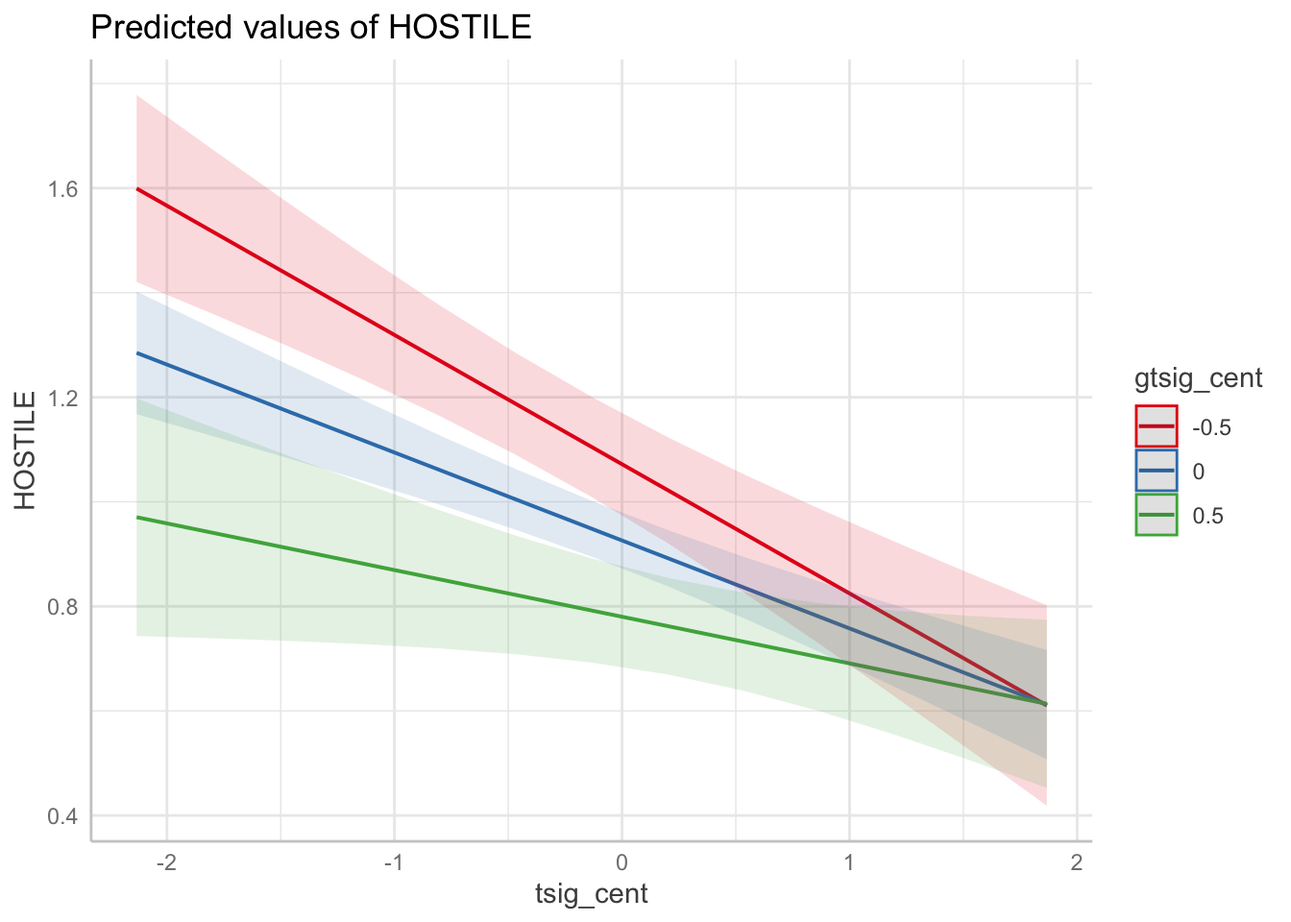
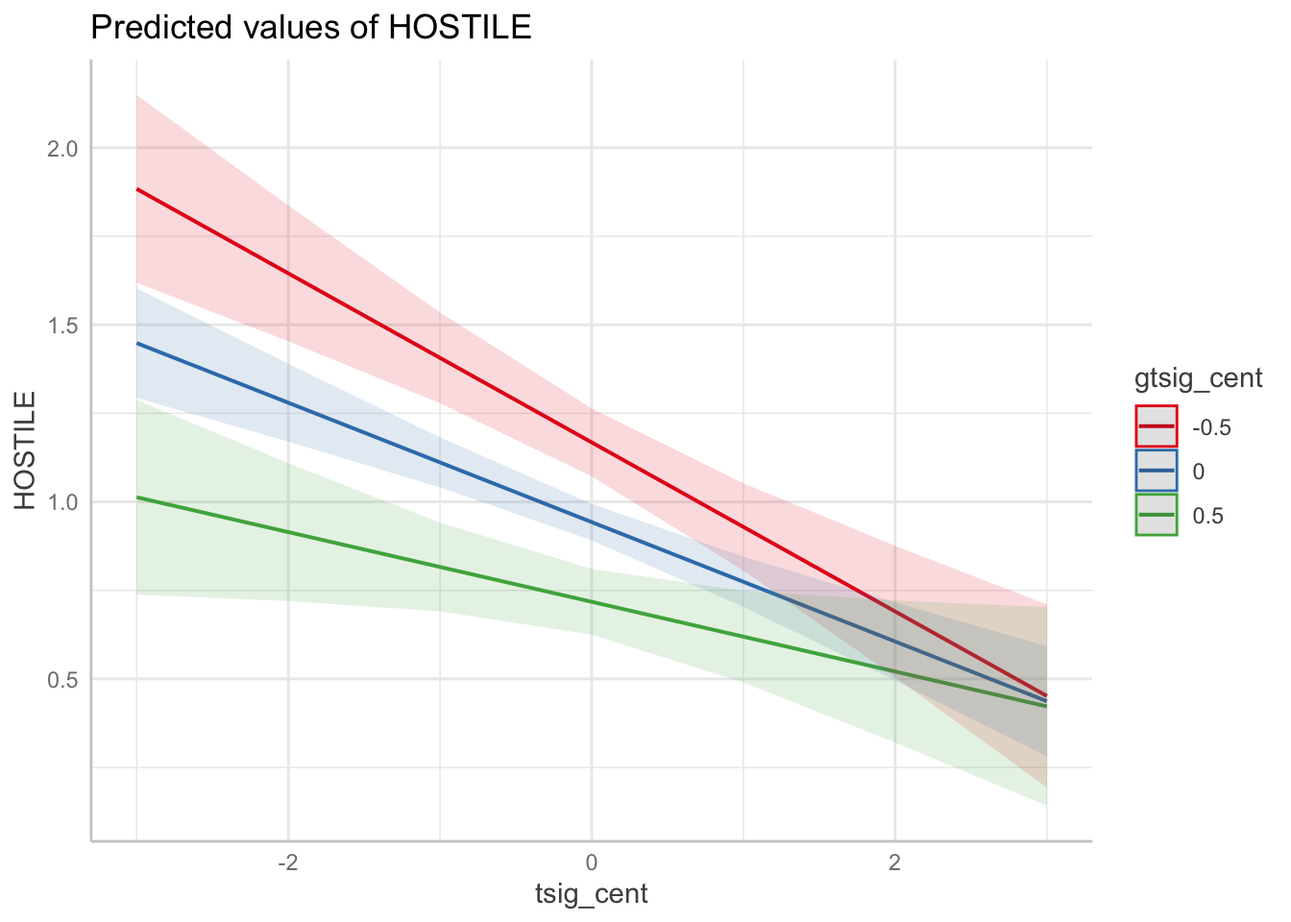
updated module 5 with different random effects

diff --git a/docs/05-random-slopes.html b/docs/05-random-slopes.html
@@ -672,13 +672,16 @@ Signif. codes:  0 '***' 0.001 '**' 0.01 '*' 0.05 '.' 0.1 ' ' 1</code></pre>
 <p>Note the difference from a random slope. A random slope says slopes vary across companies but does not say why. A cross-level interaction tries to <em>explain</em> that variation using a level-2 variable.</p>
 <section id="step-one-create-centered-versions-of-your-two-predictors" class="level3" data-number="6.5.1"><h3 data-number="6.5.1" class="anchored" data-anchor-id="step-one-create-centered-versions-of-your-two-predictors">
 <span class="header-section-number">6.5.1</span> Step one: create centered versions of your two predictors</h3>
-<p>Centering a variable means to subtract the mean from every observation. So now that variable has a mean of 0 (0 now means average). When we look at interaction effects, it is usually a good idea to center any continuous predictors before analyzing. This facilitates easier interpretation of the results, and it ensures that the interaction is being evaluated near the sample mean.</p>
+<p>Centering a variable means to subtract the mean from every observation. So now that variable has a mean of 0 (0 now means average). When we look at interaction effects, it is usually a good idea to center any continuous predictors before analyzing. In multilevel modeling, we typically group mean center predictors at level-1, and grand mean center predictors at level 2. This facilitates easier interpretation of the results, and it ensures that the interaction is being evaluated near the sample mean.</p>
 <p>Centering works like this: you use the <code>mutate</code> function from <code>dplyr</code> to create a new variable that is equal to the original variable minus the mean (which we get using the <code>mean</code> function). Just to check our work, we can call the <code>describe</code> function from <code>psych</code> and make sure that the means of those new variables are 0.</p>
 <div class="cell">
 <div class="code-copy-outer-scaffold"><div class="sourceCode" id="cb23"><pre class="downlit sourceCode r code-with-copy"><code class="sourceCode R"><span><span class="va">lq2002.2</span> <span class="op">&lt;-</span> <span class="va">lq2002.1</span> <span class="op"><a href="https://magrittr.tidyverse.org/reference/pipe.html">%&gt;%</a></span></span>
-<span>  <span class="fu"><a href="https://dplyr.tidyverse.org/reference/mutate.html">mutate</a></span><span class="op">(</span><span class="va">.</span>,</span>
-<span>         tsig_cent <span class="op">=</span> <span class="va">TSIG</span> <span class="op">-</span> <span class="fu"><a href="https://rdrr.io/r/base/mean.html">mean</a></span><span class="op">(</span><span class="va">TSIG</span><span class="op">)</span>,</span>
-<span>         gtsig_cent <span class="op">=</span> <span class="va">GTSIG</span> <span class="op">-</span> <span class="fu"><a href="https://rdrr.io/r/base/mean.html">mean</a></span><span class="op">(</span><span class="va">GTSIG</span><span class="op">)</span><span class="op">)</span></span>
+<span>  <span class="fu"><a href="https://dplyr.tidyverse.org/reference/mutate.html">mutate</a></span><span class="op">(</span><span class="va">.</span>, <span class="co">#Grand mean center the level-2 variable</span></span>
+<span>         gtsig_cent <span class="op">=</span> <span class="va">GTSIG</span> <span class="op">-</span> <span class="fu"><a href="https://rdrr.io/r/base/mean.html">mean</a></span><span class="op">(</span><span class="va">GTSIG</span><span class="op">)</span><span class="op">)</span> <span class="op"><a href="https://magrittr.tidyverse.org/reference/pipe.html">%&gt;%</a></span></span>
+<span>  <span class="fu"><a href="https://dplyr.tidyverse.org/reference/group_by.html">group_by</a></span><span class="op">(</span><span class="va">COMPID</span><span class="op">)</span> <span class="op"><a href="https://magrittr.tidyverse.org/reference/pipe.html">%&gt;%</a></span></span>
+<span>         <span class="fu"><a href="https://dplyr.tidyverse.org/reference/mutate.html">mutate</a></span><span class="op">(</span><span class="va">.</span>, <span class="co">#Group mean center the level-1 variable</span></span>
+<span>                tsig_cent <span class="op">=</span> <span class="va">TSIG</span> <span class="op">-</span> <span class="fu"><a href="https://rdrr.io/r/base/mean.html">mean</a></span><span class="op">(</span><span class="va">TSIG</span><span class="op">)</span><span class="op">)</span> <span class="op"><a href="https://magrittr.tidyverse.org/reference/pipe.html">%&gt;%</a></span></span>
+<span>  <span class="fu"><a href="https://dplyr.tidyverse.org/reference/group_by.html">ungroup</a></span><span class="op">(</span><span class="op">)</span></span>
 <span></span>
 <span><span class="fu">psych</span><span class="fu">::</span><span class="fu"><a href="https://rdrr.io/pkg/psych/man/describe.html">describe</a></span><span class="op">(</span><span class="va">lq2002.2</span>, fast <span class="op">=</span> <span class="cn">TRUE</span><span class="op">)</span></span></code></pre></div><button title="Copy to Clipboard" class="code-copy-button"><i class="bi"></i></button></div>
 <div class="cell-output cell-output-stdout">
@@ -714,8 +717,8 @@ GHOSTILE     28 2042    0.95   0.28    0.91  0.22    1.52    1.31  0.15
 glead        29 2042    3.00   0.27    2.98  2.38    3.74    1.36  0.36
 gtsig        30 2042    3.13   0.32    3.12  2.54    3.78    1.24  0.16
 ghostile     31 2042    0.95   0.28    0.91  0.22    1.52    1.31  0.15
-tsig_cent    32 2042    0.00   1.02    0.20 -2.13    1.87    4.00 -0.38
-gtsig_cent   33 2042    0.00   0.32   -0.01 -0.59    0.64    1.24  0.16
+gtsig_cent   32 2042    0.00   0.32   -0.01 -0.59    0.64    1.24  0.16
+tsig_cent    33 2042    0.00   0.97    0.09 -2.71    2.46    5.17 -0.36
            kurtosis    se
 ROWID         -1.20 13.05
 COMPID        -0.84  0.31
@@ -748,8 +751,8 @@ GHOSTILE      -0.71  0.01
 glead          0.34  0.01
 gtsig         -1.05  0.01
 ghostile      -0.71  0.01
-tsig_cent     -0.47  0.02
-gtsig_cent    -1.05  0.01</code></pre>
+gtsig_cent    -1.05  0.01
+tsig_cent     -0.34  0.02</code></pre>
 </div>
 </div>
 </section><section id="step-two-run-the-mlm-and-interpret-the-results" class="level3" data-number="6.5.2"><h3 data-number="6.5.2" class="anchored" data-anchor-id="step-two-run-the-mlm-and-interpret-the-results">
@@ -779,10 +782,10 @@ Number of obs: 2042, groups:  COMPID, 49
 
 Fixed effects:
               Estimate Std. Error         df t value Pr(&gt;|t|)    
-(Intercept)    1.99845    0.09384 1048.28028  21.296  &lt; 2e-16 ***
+(Intercept)    1.99845    0.09384 1048.28023  21.296  &lt; 2e-16 ***
 tsig_cent     -0.17234    0.02479 2041.22422  -6.953 4.79e-12 ***
-LEAD          -0.35177    0.02996 1824.44440 -11.741  &lt; 2e-16 ***
-gtsig_cent    -0.27729    0.08258   46.65424  -3.358  0.00157 ** 
+LEAD          -0.35177    0.02996 1824.44441 -11.741  &lt; 2e-16 ***
+gtsig_cent    -0.44964    0.08066   42.15475  -5.575 1.60e-06 ***
 ---
 Signif. codes:  0 '***' 0.001 '**' 0.01 '*' 0.05 '.' 0.1 ' ' 1
 
@@ -790,7 +793,7 @@ Correlation of Fixed Effects:
            (Intr) tsg_cn LEAD  
 tsig_cent   0.491              
 LEAD       -0.960 -0.511       
-gtsig_cent -0.020 -0.227  0.010</code></pre>
+gtsig_cent  0.130  0.075 -0.147</code></pre>
 </div>
 </div>
 <p>Compare this to <code>model.1</code>. The coefficients on the predictors are identical, and only the intercept changed. That is centering working exactly as advertised: it relocates the origin without altering any relationship. What it buys you is an interpretable intercept, now the predicted hostility for a soldier of average task significance in a company of average task significance, which is a sentence you can put in a paper.</p>
@@ -808,34 +811,34 @@ Formula: HOSTILE ~ tsig_cent + LEAD + gtsig_cent + tsig_cent:gtsig_cent +
    Data: lq2002.2
 
       AIC       BIC    logLik -2*log(L)  df.resid 
-   5530.2    5569.6   -2758.1    5516.2      2035 
+   5531.7    5571.0   -2758.8    5517.7      2035 
 
 Scaled residuals: 
     Min      1Q  Median      3Q     Max 
--2.4241 -0.6923 -0.2381  0.5068  3.4601 
+-2.4085 -0.6919 -0.2362  0.5083  3.4744 
 
 Random effects:
  Groups   Name        Variance Std.Dev.
- COMPID   (Intercept) 0.009531 0.09763 
- Residual             0.864954 0.93003 
+ COMPID   (Intercept) 0.009955 0.09978 
+ Residual             0.865314 0.93022 
 Number of obs: 2042, groups:  COMPID, 49
 
 Fixed effects:
                        Estimate Std. Error         df t value Pr(&gt;|t|)    
-(Intercept)             1.97511    0.09418 1080.30416  20.971  &lt; 2e-16 ***
-tsig_cent              -0.16826    0.02481 2041.74697  -6.781 1.56e-11 ***
-LEAD                   -0.34961    0.02993 1829.96220 -11.682  &lt; 2e-16 ***
-gtsig_cent             -0.29177    0.08223   48.16072  -3.548 0.000876 ***
-tsig_cent:gtsig_cent    0.15799    0.06757 1824.87112   2.338 0.019491 *  
+(Intercept)             1.99386    0.09379 1047.60810  21.258  &lt; 2e-16 ***
+tsig_cent              -0.16855    0.02483 2041.06030  -6.787 1.50e-11 ***
+LEAD                   -0.35026    0.02994 1824.87068 -11.698  &lt; 2e-16 ***
+gtsig_cent             -0.45009    0.08067   42.13466  -5.579 1.58e-06 ***
+tsig_cent:gtsig_cent    0.14023    0.07014 1998.08800   1.999   0.0457 *  
 ---
 Signif. codes:  0 '***' 0.001 '**' 0.01 '*' 0.05 '.' 0.1 ' ' 1
 
 Correlation of Fixed Effects:
             (Intr) tsg_cn LEAD   gtsg_c
-tsig_cent    0.479                     
-LEAD        -0.958 -0.507              
-gtsig_cent  -0.012 -0.232  0.008       
-tsg_cnt:gt_ -0.107  0.070  0.032 -0.071</code></pre>
+tsig_cent    0.487                     
+LEAD        -0.960 -0.507              
+gtsig_cent   0.130  0.074 -0.147       
+tsg_cnt:gt_ -0.024  0.076  0.025 -0.004</code></pre>
 </div>
 </div>
 </section><section id="should-we-include-that-interaction-comparing-model.4-with-model.5" class="level2" data-number="6.7"><h2 data-number="6.7" class="anchored" data-anchor-id="should-we-include-that-interaction-comparing-model.4-with-model.5">
@@ -850,7 +853,7 @@ model.4: HOSTILE ~ tsig_cent + LEAD + gtsig_cent + (1 | COMPID)
 model.5: HOSTILE ~ tsig_cent + LEAD + gtsig_cent + tsig_cent:gtsig_cent + (1 | COMPID)
         npar    AIC    BIC  logLik -2*log(L)  Chisq Df Pr(&gt;Chisq)  
 model.4    6 5533.7 5567.4 -2760.8    5521.7                       
-model.5    7 5530.2 5569.6 -2758.1    5516.2 5.4564  1     0.0195 *
+model.5    7 5531.7 5571.0 -2758.8    5517.7 3.9928  1     0.0457 *
 ---
 Signif. codes:  0 '***' 0.001 '**' 0.01 '*' 0.05 '.' 0.1 ' ' 1</code></pre>
 </div>
@@ -903,7 +906,7 @@ Figure&nbsp;6.1: Predicted hostility across individual task significance, at thr
 <tr class="odd">
 <td>(Intercept)</td>
 <td>1.998</td>
-<td>1.975</td>
+<td>1.994</td>
 </tr>
 <tr class="even">
 <td></td>
@@ -913,7 +916,7 @@ Figure&nbsp;6.1: Predicted hostility across individual task significance, at thr
 <tr class="odd">
 <td>tsig_cent</td>
 <td>-0.172</td>
-<td>-0.168</td>
+<td>-0.169</td>
 </tr>
 <tr class="even">
 <td></td>
@@ -932,28 +935,28 @@ Figure&nbsp;6.1: Predicted hostility across individual task significance, at thr
 </tr>
 <tr class="odd">
 <td>gtsig_cent</td>
-<td>-0.277</td>
-<td>-0.292</td>
+<td>-0.450</td>
+<td>-0.450</td>
 </tr>
 <tr class="even">
 <td></td>
-<td>(0.083)</td>
-<td>(0.082)</td>
+<td>(0.081)</td>
+<td>(0.081)</td>
 </tr>
 <tr class="odd">
 <td>tsig_cent × gtsig_cent</td>
 <td></td>
-<td>0.158</td>
+<td>0.140</td>
 </tr>
 <tr class="even">
 <td></td>
 <td></td>
-<td>(0.068)</td>
+<td>(0.070)</td>
 </tr>
 <tr class="odd">
 <td>SD (Intercept COMPID)</td>
 <td>0.100</td>
-<td>0.098</td>
+<td>0.100</td>
 </tr>
 <tr class="even">
 <td>SD (Observations)</td>
@@ -968,22 +971,22 @@ Figure&nbsp;6.1: Predicted hostility across individual task significance, at thr
 <tr class="even">
 <td>R2 Marg.</td>
 <td>0.180</td>
-<td>0.183</td>
+<td>0.182</td>
 </tr>
 <tr class="odd">
 <td>R2 Cond.</td>
 <td>0.190</td>
-<td>0.192</td>
+<td>0.191</td>
 </tr>
 <tr class="even">
 <td>AIC</td>
 <td>5553.4</td>
-<td>5553.5</td>
+<td>5554.8</td>
 </tr>
 <tr class="odd">
 <td>BIC</td>
 <td>5587.1</td>
-<td>5592.8</td>
+<td>5594.2</td>
 </tr>
 <tr class="even">
 <td>ICC</td>
@@ -1616,83 +1619,86 @@ Figure&nbsp;6.1: Predicted hostility across individual task significance, at thr
 <span id="cb34-160"><a href="#cb34-160" aria-hidden="true" tabindex="-1"></a></span>
 <span id="cb34-161"><a href="#cb34-161" aria-hidden="true" tabindex="-1"></a><span class="fu">### Step one: create centered versions of your two predictors</span></span>
 <span id="cb34-162"><a href="#cb34-162" aria-hidden="true" tabindex="-1"></a></span>
-<span id="cb34-163"><a href="#cb34-163" aria-hidden="true" tabindex="-1"></a>Centering a variable means to subtract the mean from every observation. So now that variable has a mean of 0 (0 now means average). When we look at interaction effects, it is usually a good idea to center any continuous predictors before analyzing. This facilitates easier interpretation of the results, and it ensures that the interaction is being evaluated near the sample mean.</span>
+<span id="cb34-163"><a href="#cb34-163" aria-hidden="true" tabindex="-1"></a>Centering a variable means to subtract the mean from every observation. So now that variable has a mean of 0 (0 now means average). When we look at interaction effects, it is usually a good idea to center any continuous predictors before analyzing. In multilevel modeling, we typically group mean center predictors at level-1, and grand mean center predictors at level 2. This facilitates easier interpretation of the results, and it ensures that the interaction is being evaluated near the sample mean.</span>
 <span id="cb34-164"><a href="#cb34-164" aria-hidden="true" tabindex="-1"></a></span>
 <span id="cb34-165"><a href="#cb34-165" aria-hidden="true" tabindex="-1"></a>Centering works like this: you use the <span class="in">`mutate`</span> function from <span class="in">`dplyr`</span> to create a new variable that is equal to the original variable minus the mean (which we get using the <span class="in">`mean`</span> function). Just to check our work, we can call the <span class="in">`describe`</span> function from <span class="in">`psych`</span> and make sure that the means of those new variables are 0.</span>
 <span id="cb34-166"><a href="#cb34-166" aria-hidden="true" tabindex="-1"></a></span>
 <span id="cb34-169"><a href="#cb34-169" aria-hidden="true" tabindex="-1"></a><span class="in">```{r}</span></span>
 <span id="cb34-170"><a href="#cb34-170" aria-hidden="true" tabindex="-1"></a>lq2002<span class="fl">.2</span> <span class="ot">&lt;-</span> lq2002<span class="fl">.1</span> <span class="sc">%&gt;%</span></span>
-<span id="cb34-171"><a href="#cb34-171" aria-hidden="true" tabindex="-1"></a>  <span class="fu">mutate</span>(.,</span>
-<span id="cb34-172"><a href="#cb34-172" aria-hidden="true" tabindex="-1"></a>         <span class="at">tsig_cent =</span> TSIG <span class="sc">-</span> <span class="fu">mean</span>(TSIG),</span>
-<span id="cb34-173"><a href="#cb34-173" aria-hidden="true" tabindex="-1"></a>         <span class="at">gtsig_cent =</span> GTSIG <span class="sc">-</span> <span class="fu">mean</span>(GTSIG))</span>
-<span id="cb34-174"><a href="#cb34-174" aria-hidden="true" tabindex="-1"></a></span>
-<span id="cb34-175"><a href="#cb34-175" aria-hidden="true" tabindex="-1"></a>psych<span class="sc">::</span><span class="fu">describe</span>(lq2002<span class="fl">.2</span>, <span class="at">fast =</span> <span class="cn">TRUE</span>)</span>
-<span id="cb34-176"><a href="#cb34-176" aria-hidden="true" tabindex="-1"></a><span class="in">```</span></span>
+<span id="cb34-171"><a href="#cb34-171" aria-hidden="true" tabindex="-1"></a>  <span class="fu">mutate</span>(., <span class="co">#Grand mean center the level-2 variable</span></span>
+<span id="cb34-172"><a href="#cb34-172" aria-hidden="true" tabindex="-1"></a>         <span class="at">gtsig_cent =</span> GTSIG <span class="sc">-</span> <span class="fu">mean</span>(GTSIG)) <span class="sc">%&gt;%</span></span>
+<span id="cb34-173"><a href="#cb34-173" aria-hidden="true" tabindex="-1"></a>  <span class="fu">group_by</span>(COMPID) <span class="sc">%&gt;%</span></span>
+<span id="cb34-174"><a href="#cb34-174" aria-hidden="true" tabindex="-1"></a>         <span class="fu">mutate</span>(., <span class="co">#Group mean center the level-1 variable</span></span>
+<span id="cb34-175"><a href="#cb34-175" aria-hidden="true" tabindex="-1"></a>                <span class="at">tsig_cent =</span> TSIG <span class="sc">-</span> <span class="fu">mean</span>(TSIG)) <span class="sc">%&gt;%</span></span>
+<span id="cb34-176"><a href="#cb34-176" aria-hidden="true" tabindex="-1"></a>  <span class="fu">ungroup</span>()</span>
 <span id="cb34-177"><a href="#cb34-177" aria-hidden="true" tabindex="-1"></a></span>
-<span id="cb34-178"><a href="#cb34-178" aria-hidden="true" tabindex="-1"></a><span class="fu">### Step two: run the MLM and interpret the results</span></span>
-<span id="cb34-179"><a href="#cb34-179" aria-hidden="true" tabindex="-1"></a></span>
-<span id="cb34-182"><a href="#cb34-182" aria-hidden="true" tabindex="-1"></a><span class="in">```{r}</span></span>
-<span id="cb34-183"><a href="#cb34-183" aria-hidden="true" tabindex="-1"></a>model<span class="fl">.4</span> <span class="ot">&lt;-</span> <span class="fu">lmer</span>(HOSTILE <span class="sc">~</span> tsig_cent <span class="sc">+</span> LEAD <span class="sc">+</span> gtsig_cent <span class="sc">+</span> (<span class="dv">1</span><span class="sc">|</span>COMPID), <span class="at">REML =</span> <span class="cn">FALSE</span>, <span class="at">data =</span> lq2002<span class="fl">.2</span>)</span>
-<span id="cb34-184"><a href="#cb34-184" aria-hidden="true" tabindex="-1"></a></span>
-<span id="cb34-185"><a href="#cb34-185" aria-hidden="true" tabindex="-1"></a><span class="fu">summary</span>(model<span class="fl">.4</span>)</span>
-<span id="cb34-186"><a href="#cb34-186" aria-hidden="true" tabindex="-1"></a><span class="in">```</span></span>
+<span id="cb34-178"><a href="#cb34-178" aria-hidden="true" tabindex="-1"></a>psych<span class="sc">::</span><span class="fu">describe</span>(lq2002<span class="fl">.2</span>, <span class="at">fast =</span> <span class="cn">TRUE</span>)</span>
+<span id="cb34-179"><a href="#cb34-179" aria-hidden="true" tabindex="-1"></a><span class="in">```</span></span>
+<span id="cb34-180"><a href="#cb34-180" aria-hidden="true" tabindex="-1"></a></span>
+<span id="cb34-181"><a href="#cb34-181" aria-hidden="true" tabindex="-1"></a><span class="fu">### Step two: run the MLM and interpret the results</span></span>
+<span id="cb34-182"><a href="#cb34-182" aria-hidden="true" tabindex="-1"></a></span>
+<span id="cb34-185"><a href="#cb34-185" aria-hidden="true" tabindex="-1"></a><span class="in">```{r}</span></span>
+<span id="cb34-186"><a href="#cb34-186" aria-hidden="true" tabindex="-1"></a>model<span class="fl">.4</span> <span class="ot">&lt;-</span> <span class="fu">lmer</span>(HOSTILE <span class="sc">~</span> tsig_cent <span class="sc">+</span> LEAD <span class="sc">+</span> gtsig_cent <span class="sc">+</span> (<span class="dv">1</span><span class="sc">|</span>COMPID), <span class="at">REML =</span> <span class="cn">FALSE</span>, <span class="at">data =</span> lq2002<span class="fl">.2</span>)</span>
 <span id="cb34-187"><a href="#cb34-187" aria-hidden="true" tabindex="-1"></a></span>
-<span id="cb34-188"><a href="#cb34-188" aria-hidden="true" tabindex="-1"></a>Compare this to <span class="in">`model.1`</span>. The coefficients on the predictors are identical, and only the intercept changed. That is centering working exactly as advertised: it relocates the origin without altering any relationship. What it buys you is an interpretable intercept, now the predicted hostility for a soldier of average task significance in a company of average task significance, which is a sentence you can put in a paper.</span>
-<span id="cb34-189"><a href="#cb34-189" aria-hidden="true" tabindex="-1"></a></span>
-<span id="cb34-190"><a href="#cb34-190" aria-hidden="true" tabindex="-1"></a><span class="fu">## Interaction effects model</span></span>
-<span id="cb34-191"><a href="#cb34-191" aria-hidden="true" tabindex="-1"></a></span>
-<span id="cb34-194"><a href="#cb34-194" aria-hidden="true" tabindex="-1"></a><span class="in">```{r}</span></span>
-<span id="cb34-195"><a href="#cb34-195" aria-hidden="true" tabindex="-1"></a>model<span class="fl">.5</span> <span class="ot">&lt;-</span> <span class="fu">lmer</span>(HOSTILE <span class="sc">~</span> tsig_cent <span class="sc">+</span> LEAD <span class="sc">+</span> gtsig_cent <span class="sc">+</span> tsig_cent<span class="sc">:</span>gtsig_cent <span class="sc">+</span> (<span class="dv">1</span><span class="sc">|</span>COMPID), <span class="at">REML =</span> <span class="cn">FALSE</span>, <span class="at">data =</span> lq2002<span class="fl">.2</span>)</span>
-<span id="cb34-196"><a href="#cb34-196" aria-hidden="true" tabindex="-1"></a></span>
-<span id="cb34-197"><a href="#cb34-197" aria-hidden="true" tabindex="-1"></a><span class="fu">summary</span>(model<span class="fl">.5</span>)</span>
-<span id="cb34-198"><a href="#cb34-198" aria-hidden="true" tabindex="-1"></a><span class="in">```</span></span>
+<span id="cb34-188"><a href="#cb34-188" aria-hidden="true" tabindex="-1"></a><span class="fu">summary</span>(model<span class="fl">.4</span>)</span>
+<span id="cb34-189"><a href="#cb34-189" aria-hidden="true" tabindex="-1"></a><span class="in">```</span></span>
+<span id="cb34-190"><a href="#cb34-190" aria-hidden="true" tabindex="-1"></a></span>
+<span id="cb34-191"><a href="#cb34-191" aria-hidden="true" tabindex="-1"></a>Compare this to <span class="in">`model.1`</span>. The coefficients on the predictors are identical, and only the intercept changed. That is centering working exactly as advertised: it relocates the origin without altering any relationship. What it buys you is an interpretable intercept, now the predicted hostility for a soldier of average task significance in a company of average task significance, which is a sentence you can put in a paper.</span>
+<span id="cb34-192"><a href="#cb34-192" aria-hidden="true" tabindex="-1"></a></span>
+<span id="cb34-193"><a href="#cb34-193" aria-hidden="true" tabindex="-1"></a><span class="fu">## Interaction effects model</span></span>
+<span id="cb34-194"><a href="#cb34-194" aria-hidden="true" tabindex="-1"></a></span>
+<span id="cb34-197"><a href="#cb34-197" aria-hidden="true" tabindex="-1"></a><span class="in">```{r}</span></span>
+<span id="cb34-198"><a href="#cb34-198" aria-hidden="true" tabindex="-1"></a>model<span class="fl">.5</span> <span class="ot">&lt;-</span> <span class="fu">lmer</span>(HOSTILE <span class="sc">~</span> tsig_cent <span class="sc">+</span> LEAD <span class="sc">+</span> gtsig_cent <span class="sc">+</span> tsig_cent<span class="sc">:</span>gtsig_cent <span class="sc">+</span> (<span class="dv">1</span><span class="sc">|</span>COMPID), <span class="at">REML =</span> <span class="cn">FALSE</span>, <span class="at">data =</span> lq2002<span class="fl">.2</span>)</span>
 <span id="cb34-199"><a href="#cb34-199" aria-hidden="true" tabindex="-1"></a></span>
-<span id="cb34-200"><a href="#cb34-200" aria-hidden="true" tabindex="-1"></a><span class="fu">## Should we include that interaction? Comparing `model.4` with `model.5`</span></span>
-<span id="cb34-201"><a href="#cb34-201" aria-hidden="true" tabindex="-1"></a></span>
-<span id="cb34-204"><a href="#cb34-204" aria-hidden="true" tabindex="-1"></a><span class="in">```{r}</span></span>
-<span id="cb34-205"><a href="#cb34-205" aria-hidden="true" tabindex="-1"></a><span class="fu">anova</span>(model<span class="fl">.5</span>, model<span class="fl">.4</span>)</span>
-<span id="cb34-206"><a href="#cb34-206" aria-hidden="true" tabindex="-1"></a><span class="in">```</span></span>
-<span id="cb34-207"><a href="#cb34-207" aria-hidden="true" tabindex="-1"></a></span>
-<span id="cb34-208"><a href="#cb34-208" aria-hidden="true" tabindex="-1"></a><span class="fu">## Step three: use `ggeffects` to obtain more easily interpretable results</span></span>
-<span id="cb34-209"><a href="#cb34-209" aria-hidden="true" tabindex="-1"></a></span>
-<span id="cb34-210"><a href="#cb34-210" aria-hidden="true" tabindex="-1"></a>Interpreting a significant interaction from a coefficient alone is hard. The <span class="in">`ggeffects`</span> package helps by turning the model into predicted values you can plot directly, rather than asking you to reason about what a coefficient on a coefficient means. We will use it to see predicted hostility across <span class="in">`TSIG`</span>, separately for companies at three representative levels of <span class="in">`GTSIG`</span>.</span>
-<span id="cb34-211"><a href="#cb34-211" aria-hidden="true" tabindex="-1"></a></span>
-<span id="cb34-214"><a href="#cb34-214" aria-hidden="true" tabindex="-1"></a><span class="in">```{r}</span></span>
-<span id="cb34-215"><a href="#cb34-215" aria-hidden="true" tabindex="-1"></a><span class="co">#| label: fig-ggpredict</span></span>
-<span id="cb34-216"><a href="#cb34-216" aria-hidden="true" tabindex="-1"></a><span class="co">#| fig-cap: "Predicted hostility across individual task significance, at three levels of company task significance."</span></span>
-<span id="cb34-217"><a href="#cb34-217" aria-hidden="true" tabindex="-1"></a><span class="co">#| message: false</span></span>
-<span id="cb34-218"><a href="#cb34-218" aria-hidden="true" tabindex="-1"></a></span>
-<span id="cb34-219"><a href="#cb34-219" aria-hidden="true" tabindex="-1"></a><span class="fu">library</span>(ggeffects)</span>
-<span id="cb34-220"><a href="#cb34-220" aria-hidden="true" tabindex="-1"></a></span>
-<span id="cb34-221"><a href="#cb34-221" aria-hidden="true" tabindex="-1"></a><span class="fu">plot</span>(<span class="fu">ggpredict</span>(model<span class="fl">.5</span>, <span class="at">terms =</span> <span class="fu">c</span>(<span class="st">"tsig_cent"</span>, <span class="st">"gtsig_cent [-0.5, 0, 0.5]"</span>)))</span>
-<span id="cb34-222"><a href="#cb34-222" aria-hidden="true" tabindex="-1"></a><span class="in">```</span></span>
+<span id="cb34-200"><a href="#cb34-200" aria-hidden="true" tabindex="-1"></a><span class="fu">summary</span>(model<span class="fl">.5</span>)</span>
+<span id="cb34-201"><a href="#cb34-201" aria-hidden="true" tabindex="-1"></a><span class="in">```</span></span>
+<span id="cb34-202"><a href="#cb34-202" aria-hidden="true" tabindex="-1"></a></span>
+<span id="cb34-203"><a href="#cb34-203" aria-hidden="true" tabindex="-1"></a><span class="fu">## Should we include that interaction? Comparing `model.4` with `model.5`</span></span>
+<span id="cb34-204"><a href="#cb34-204" aria-hidden="true" tabindex="-1"></a></span>
+<span id="cb34-207"><a href="#cb34-207" aria-hidden="true" tabindex="-1"></a><span class="in">```{r}</span></span>
+<span id="cb34-208"><a href="#cb34-208" aria-hidden="true" tabindex="-1"></a><span class="fu">anova</span>(model<span class="fl">.5</span>, model<span class="fl">.4</span>)</span>
+<span id="cb34-209"><a href="#cb34-209" aria-hidden="true" tabindex="-1"></a><span class="in">```</span></span>
+<span id="cb34-210"><a href="#cb34-210" aria-hidden="true" tabindex="-1"></a></span>
+<span id="cb34-211"><a href="#cb34-211" aria-hidden="true" tabindex="-1"></a><span class="fu">## Step three: use `ggeffects` to obtain more easily interpretable results</span></span>
+<span id="cb34-212"><a href="#cb34-212" aria-hidden="true" tabindex="-1"></a></span>
+<span id="cb34-213"><a href="#cb34-213" aria-hidden="true" tabindex="-1"></a>Interpreting a significant interaction from a coefficient alone is hard. The <span class="in">`ggeffects`</span> package helps by turning the model into predicted values you can plot directly, rather than asking you to reason about what a coefficient on a coefficient means. We will use it to see predicted hostility across <span class="in">`TSIG`</span>, separately for companies at three representative levels of <span class="in">`GTSIG`</span>.</span>
+<span id="cb34-214"><a href="#cb34-214" aria-hidden="true" tabindex="-1"></a></span>
+<span id="cb34-217"><a href="#cb34-217" aria-hidden="true" tabindex="-1"></a><span class="in">```{r}</span></span>
+<span id="cb34-218"><a href="#cb34-218" aria-hidden="true" tabindex="-1"></a><span class="co">#| label: fig-ggpredict</span></span>
+<span id="cb34-219"><a href="#cb34-219" aria-hidden="true" tabindex="-1"></a><span class="co">#| fig-cap: "Predicted hostility across individual task significance, at three levels of company task significance."</span></span>
+<span id="cb34-220"><a href="#cb34-220" aria-hidden="true" tabindex="-1"></a><span class="co">#| message: false</span></span>
+<span id="cb34-221"><a href="#cb34-221" aria-hidden="true" tabindex="-1"></a></span>
+<span id="cb34-222"><a href="#cb34-222" aria-hidden="true" tabindex="-1"></a><span class="fu">library</span>(ggeffects)</span>
 <span id="cb34-223"><a href="#cb34-223" aria-hidden="true" tabindex="-1"></a></span>
-<span id="cb34-224"><a href="#cb34-224" aria-hidden="true" tabindex="-1"></a>Read this the same way you would read any other predicted-value plot in this book: the vertical axis is predicted <span class="in">`HOSTILE`</span>, not a coefficient, and each of the three lines traces predicted hostility across <span class="in">`tsig_cent`</span> at one fixed level of <span class="in">`gtsig_cent`</span> (a below-average, average, and above-average company). If the three lines were parallel, <span class="in">`TSIG`</span> and <span class="in">`GTSIG`</span> would not interact — an individual soldier's own sense of task significance would predict hostility the same way no matter the company. That is not what happens here. The lines are clearly separated on the left and converge on the right: among soldiers who feel their own work is *not* very significant, company climate matters a lot, with predicted hostility ranging from about 1.6 in low-<span class="in">`GTSIG`</span> companies down to about 1.0 in high-<span class="in">`GTSIG`</span> companies. Among soldiers who already feel their own work is highly significant, that company-level gap nearly disappears, and all three lines converge toward the same, low predicted hostility. Put in plain language: a company's overall sense that the work matters seems to compensate for an individual soldier not feeling that way personally, but has little left to add once a soldier already feels that way on their own.</span>
-<span id="cb34-225"><a href="#cb34-225" aria-hidden="true" tabindex="-1"></a></span>
-<span id="cb34-226"><a href="#cb34-226" aria-hidden="true" tabindex="-1"></a><span class="fu">## Using `modelsummary` and `broom.mixed` to organize your results</span></span>
-<span id="cb34-227"><a href="#cb34-227" aria-hidden="true" tabindex="-1"></a></span>
-<span id="cb34-230"><a href="#cb34-230" aria-hidden="true" tabindex="-1"></a><span class="in">```{r}</span></span>
-<span id="cb34-231"><a href="#cb34-231" aria-hidden="true" tabindex="-1"></a><span class="co">#| message: false</span></span>
-<span id="cb34-232"><a href="#cb34-232" aria-hidden="true" tabindex="-1"></a></span>
-<span id="cb34-233"><a href="#cb34-233" aria-hidden="true" tabindex="-1"></a><span class="fu">library</span>(modelsummary)</span>
-<span id="cb34-234"><a href="#cb34-234" aria-hidden="true" tabindex="-1"></a><span class="fu">library</span>(broom.mixed)</span>
+<span id="cb34-224"><a href="#cb34-224" aria-hidden="true" tabindex="-1"></a><span class="fu">plot</span>(<span class="fu">ggpredict</span>(model<span class="fl">.5</span>, <span class="at">terms =</span> <span class="fu">c</span>(<span class="st">"tsig_cent"</span>, <span class="st">"gtsig_cent [-0.5, 0, 0.5]"</span>)))</span>
+<span id="cb34-225"><a href="#cb34-225" aria-hidden="true" tabindex="-1"></a><span class="in">```</span></span>
+<span id="cb34-226"><a href="#cb34-226" aria-hidden="true" tabindex="-1"></a></span>
+<span id="cb34-227"><a href="#cb34-227" aria-hidden="true" tabindex="-1"></a>Read this the same way you would read any other predicted-value plot in this book: the vertical axis is predicted <span class="in">`HOSTILE`</span>, not a coefficient, and each of the three lines traces predicted hostility across <span class="in">`tsig_cent`</span> at one fixed level of <span class="in">`gtsig_cent`</span> (a below-average, average, and above-average company). If the three lines were parallel, <span class="in">`TSIG`</span> and <span class="in">`GTSIG`</span> would not interact — an individual soldier's own sense of task significance would predict hostility the same way no matter the company. That is not what happens here. The lines are clearly separated on the left and converge on the right: among soldiers who feel their own work is *not* very significant, company climate matters a lot, with predicted hostility ranging from about 1.6 in low-<span class="in">`GTSIG`</span> companies down to about 1.0 in high-<span class="in">`GTSIG`</span> companies. Among soldiers who already feel their own work is highly significant, that company-level gap nearly disappears, and all three lines converge toward the same, low predicted hostility. Put in plain language: a company's overall sense that the work matters seems to compensate for an individual soldier not feeling that way personally, but has little left to add once a soldier already feels that way on their own.</span>
+<span id="cb34-228"><a href="#cb34-228" aria-hidden="true" tabindex="-1"></a></span>
+<span id="cb34-229"><a href="#cb34-229" aria-hidden="true" tabindex="-1"></a><span class="fu">## Using `modelsummary` and `broom.mixed` to organize your results</span></span>
+<span id="cb34-230"><a href="#cb34-230" aria-hidden="true" tabindex="-1"></a></span>
+<span id="cb34-233"><a href="#cb34-233" aria-hidden="true" tabindex="-1"></a><span class="in">```{r}</span></span>
+<span id="cb34-234"><a href="#cb34-234" aria-hidden="true" tabindex="-1"></a><span class="co">#| message: false</span></span>
 <span id="cb34-235"><a href="#cb34-235" aria-hidden="true" tabindex="-1"></a></span>
-<span id="cb34-236"><a href="#cb34-236" aria-hidden="true" tabindex="-1"></a>models <span class="ot">&lt;-</span> <span class="fu">list</span>(model<span class="fl">.4</span>, model<span class="fl">.5</span>)</span>
-<span id="cb34-237"><a href="#cb34-237" aria-hidden="true" tabindex="-1"></a></span>
-<span id="cb34-238"><a href="#cb34-238" aria-hidden="true" tabindex="-1"></a><span class="fu">modelsummary</span>(models, <span class="at">output =</span> <span class="st">"markdown"</span>)</span>
-<span id="cb34-239"><a href="#cb34-239" aria-hidden="true" tabindex="-1"></a><span class="in">```</span></span>
+<span id="cb34-236"><a href="#cb34-236" aria-hidden="true" tabindex="-1"></a><span class="fu">library</span>(modelsummary)</span>
+<span id="cb34-237"><a href="#cb34-237" aria-hidden="true" tabindex="-1"></a><span class="fu">library</span>(broom.mixed)</span>
+<span id="cb34-238"><a href="#cb34-238" aria-hidden="true" tabindex="-1"></a></span>
+<span id="cb34-239"><a href="#cb34-239" aria-hidden="true" tabindex="-1"></a>models <span class="ot">&lt;-</span> <span class="fu">list</span>(model<span class="fl">.4</span>, model<span class="fl">.5</span>)</span>
 <span id="cb34-240"><a href="#cb34-240" aria-hidden="true" tabindex="-1"></a></span>
-<span id="cb34-241"><a href="#cb34-241" aria-hidden="true" tabindex="-1"></a><span class="fu">## HTML version that you can open in Word</span></span>
-<span id="cb34-242"><a href="#cb34-242" aria-hidden="true" tabindex="-1"></a></span>
-<span id="cb34-245"><a href="#cb34-245" aria-hidden="true" tabindex="-1"></a><span class="in">```{r}</span></span>
-<span id="cb34-246"><a href="#cb34-246" aria-hidden="true" tabindex="-1"></a><span class="co">#| eval: false</span></span>
-<span id="cb34-247"><a href="#cb34-247" aria-hidden="true" tabindex="-1"></a></span>
-<span id="cb34-248"><a href="#cb34-248" aria-hidden="true" tabindex="-1"></a><span class="fu">modelsummary</span>(models, <span class="at">output =</span> <span class="st">'msum.html'</span>, <span class="at">title =</span> <span class="st">'MLM Estimates'</span>)</span>
-<span id="cb34-249"><a href="#cb34-249" aria-hidden="true" tabindex="-1"></a><span class="in">```</span></span>
+<span id="cb34-241"><a href="#cb34-241" aria-hidden="true" tabindex="-1"></a><span class="fu">modelsummary</span>(models, <span class="at">output =</span> <span class="st">"markdown"</span>)</span>
+<span id="cb34-242"><a href="#cb34-242" aria-hidden="true" tabindex="-1"></a><span class="in">```</span></span>
+<span id="cb34-243"><a href="#cb34-243" aria-hidden="true" tabindex="-1"></a></span>
+<span id="cb34-244"><a href="#cb34-244" aria-hidden="true" tabindex="-1"></a><span class="fu">## HTML version that you can open in Word</span></span>
+<span id="cb34-245"><a href="#cb34-245" aria-hidden="true" tabindex="-1"></a></span>
+<span id="cb34-248"><a href="#cb34-248" aria-hidden="true" tabindex="-1"></a><span class="in">```{r}</span></span>
+<span id="cb34-249"><a href="#cb34-249" aria-hidden="true" tabindex="-1"></a><span class="co">#| eval: false</span></span>
 <span id="cb34-250"><a href="#cb34-250" aria-hidden="true" tabindex="-1"></a></span>
-<span id="cb34-251"><a href="#cb34-251" aria-hidden="true" tabindex="-1"></a><span class="fu">## A note on your content review</span></span>
-<span id="cb34-252"><a href="#cb34-252" aria-hidden="true" tabindex="-1"></a></span>
-<span id="cb34-253"><a href="#cb34-253" aria-hidden="true" tabindex="-1"></a>The Module 5 content review uses the Best in Class data rather than these Army data. The steps are identical: fit a random intercept model, add a random slope, evaluate it with <span class="in">`rand()`</span>, then test a cross-level interaction. What changes is the substance of the question, not the code.</span>
+<span id="cb34-251"><a href="#cb34-251" aria-hidden="true" tabindex="-1"></a><span class="fu">modelsummary</span>(models, <span class="at">output =</span> <span class="st">'msum.html'</span>, <span class="at">title =</span> <span class="st">'MLM Estimates'</span>)</span>
+<span id="cb34-252"><a href="#cb34-252" aria-hidden="true" tabindex="-1"></a><span class="in">```</span></span>
+<span id="cb34-253"><a href="#cb34-253" aria-hidden="true" tabindex="-1"></a></span>
+<span id="cb34-254"><a href="#cb34-254" aria-hidden="true" tabindex="-1"></a><span class="fu">## A note on your content review</span></span>
+<span id="cb34-255"><a href="#cb34-255" aria-hidden="true" tabindex="-1"></a></span>
+<span id="cb34-256"><a href="#cb34-256" aria-hidden="true" tabindex="-1"></a>The Module 5 content review uses the Best in Class data rather than these Army data. The steps are identical: fit a random intercept model, add a random slope, evaluate it with <span class="in">`rand()`</span>, then test a cross-level interaction. What changes is the substance of the question, not the code.</span>
 </code></pre></div><button title="Copy to Clipboard" class="code-copy-button" data-in-quarto-modal=""><i class="bi"></i></button></div>
 </div></div></div></div></div>
 </div> <!-- /content -->
